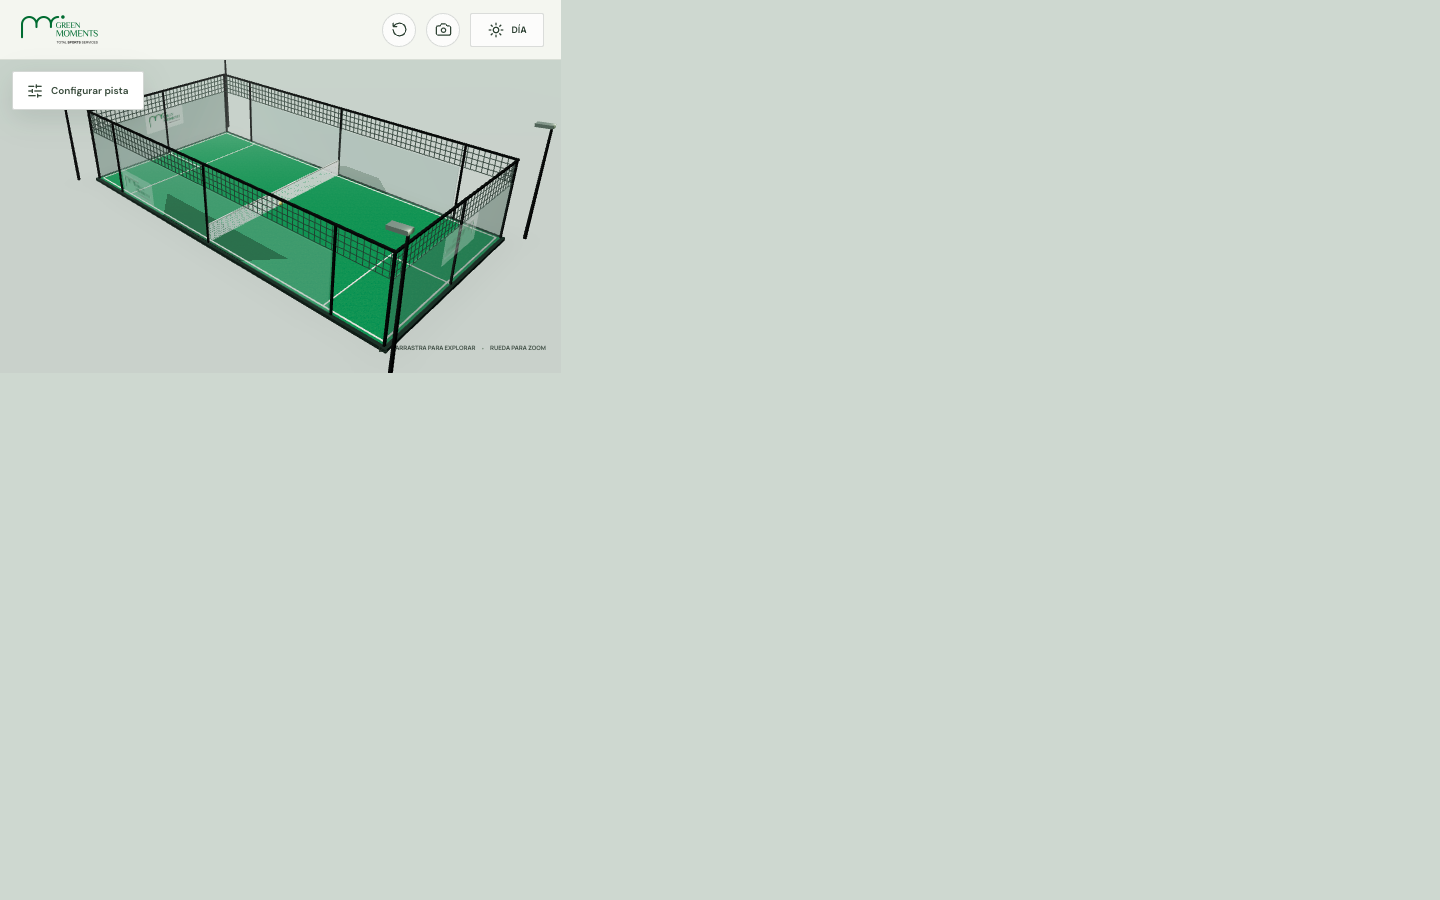
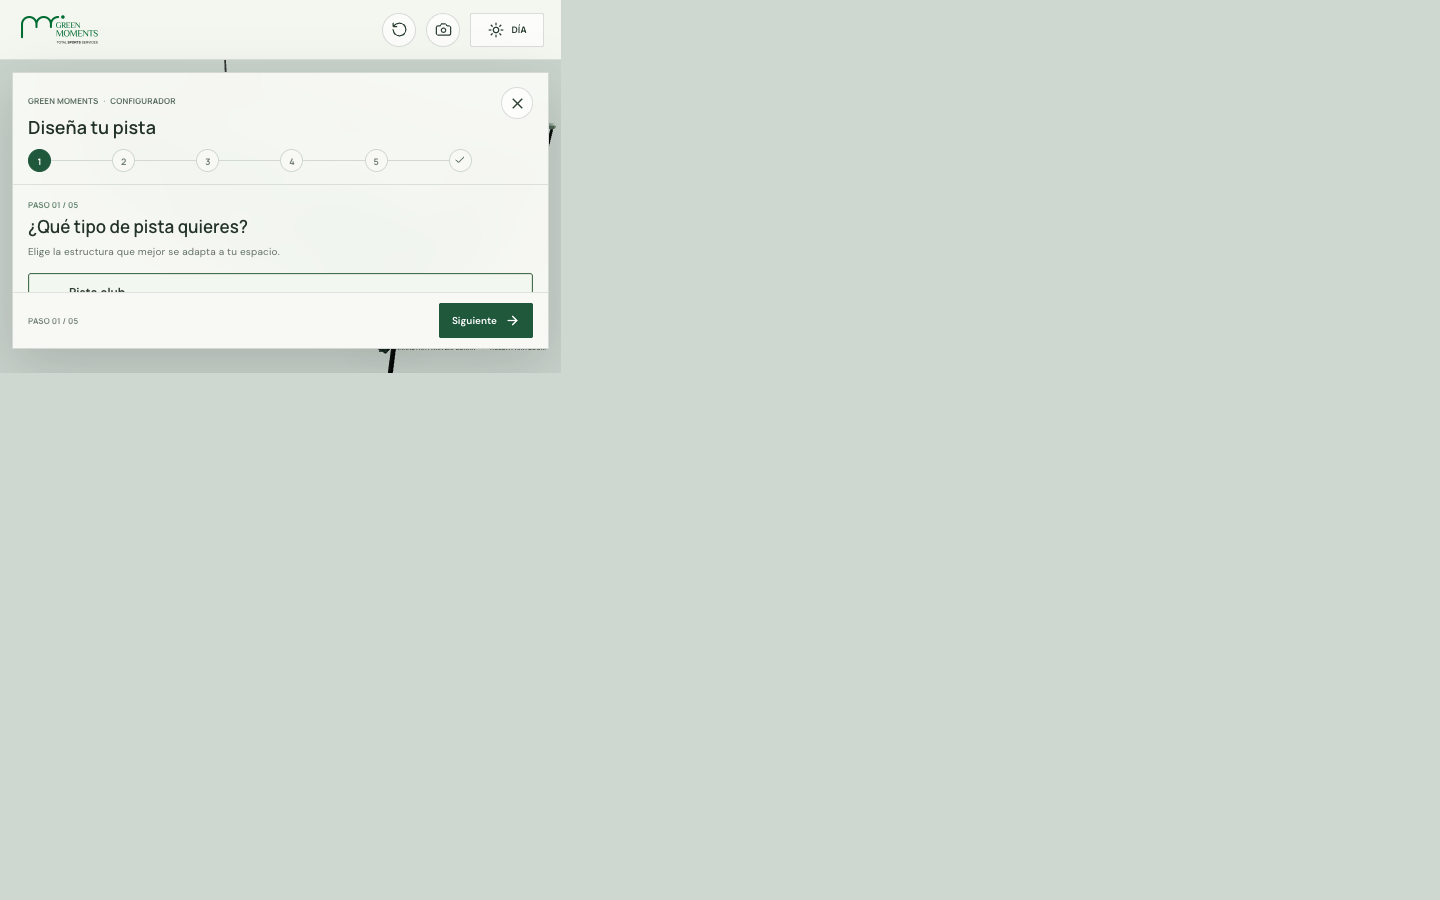
Reset camera and court configuration

Changed region(s): [[0.0, 0.0622, 0.4062, 0.4044]]

diff --git a/src/App.tsx b/src/App.tsx
@@ -49,6 +49,14 @@ type CourtConfiguration = {
   lighting: (typeof lightingTypes)[number]['id']
 }
 
+const defaultCourtConfiguration: CourtConfiguration = {
+  courtType: 'club',
+  grassType: 'monofilament',
+  grassColor: 'green',
+  frameColor: 'black',
+  lighting: 'straight',
+}
+
 const configurationSteps = ['Tipo de pista', 'Césped', 'Color', 'Estructura', 'Iluminación']
 
 function createTurfTexture(colorId: CourtConfiguration['grassColor'], grassType: CourtConfiguration['grassType']) {
@@ -83,7 +91,7 @@ function createTurfTexture(colorId: CourtConfiguration['grassColor'], grassType:
   return texture
 }
 
-function CourtScene({ night, resetKey, court }: { night: boolean; resetKey: number; court: CourtConfiguration }) {
+function CourtScene({ night, court }: { night: boolean; court: CourtConfiguration }) {
   const turf = useMemo(() => createTurfTexture(court.grassColor, court.grassType), [court.grassColor, court.grassType])
   const frameColor = frameColors.find((option) => option.id === court.frameColor)?.color ?? '#242a27'
 
@@ -154,7 +162,7 @@ function CourtScene({ night, resetKey, court }: { night: boolean; resetKey: numb
       <Floodlights night={night} type={court.lighting} frameColor={frameColor} />
       <mesh position={[0, 0.2, 0]}><sphereGeometry args={[0.12, 20, 20]} /><meshStandardMaterial color="#f2e955" roughness={0.35} /></mesh>
       <ContactShadows position={[0, -0.055, 0]} opacity={night ? 0.45 : 0.25} scale={28} blur={2.8} far={8} />
-      <OrbitControls key={resetKey} makeDefault target={[0, 1.2, 0]} minDistance={13} maxDistance={32} minPolarAngle={0.35} maxPolarAngle={1.42} enablePan={false} dampingFactor={0.08} />
+      <OrbitControls makeDefault target={[0, 1.2, 0]} minDistance={13} maxDistance={32} minPolarAngle={0.35} maxPolarAngle={1.42} enablePan={false} dampingFactor={0.08} />
     </>
   )
 }
@@ -246,13 +254,7 @@ function App() {
   const [resetKey, setResetKey] = useState(0)
   const [showReference, setShowReference] = useState(false)
   const [activeStep, setActiveStep] = useState<number | null>(0)
-  const [configuration, setConfiguration] = useState<CourtConfiguration>({
-    courtType: 'club',
-    grassType: 'monofilament',
-    grassColor: 'green',
-    frameColor: 'black',
-    lighting: 'straight',
-  })
+  const [configuration, setConfiguration] = useState<CourtConfiguration>(defaultCourtConfiguration)
 
   useEffect(() => {
     const timeout = window.setTimeout(() => window.dispatchEvent(new Event('resize')), 0)
@@ -278,6 +280,14 @@ function App() {
     setConfiguration((current) => ({ ...current, [key]: value }))
   }
 
+  function resetConfigurator() {
+    setResetKey((value) => value + 1)
+    setConfiguration(defaultCourtConfiguration)
+    setNight(false)
+    setShowReference(false)
+    setActiveStep(0)
+  }
+
   function renderChoices<T extends { id: string; label: string; description: string }>(
     options: readonly T[],
     selectedId: string,
@@ -297,9 +307,9 @@ function App() {
 
   return (
     <main className={`experience${activeStep === null ? ' is-configurator-collapsed' : ''}`}>
-      <Canvas className="court-canvas" shadows="percentage" dpr={[1, 1.8]} camera={{ position: [17.5, 14.5, 18.5], fov: 38, near: 0.1, far: 100 }} gl={{ antialias: true, powerPreference: 'high-performance' }}>
+      <Canvas key={resetKey} className="court-canvas" shadows="percentage" dpr={[1, 1.8]} camera={{ position: [17.5, 14.5, 18.5], fov: 38, near: 0.1, far: 100 }} gl={{ antialias: true, powerPreference: 'high-performance' }}>
         <Suspense fallback={null}>
-          <CourtScene night={night} resetKey={resetKey} court={configuration} />
+          <CourtScene night={night} court={configuration} />
         </Suspense>
       </Canvas>
 
@@ -307,7 +317,7 @@ function App() {
         <a className="brand" href="https://greenmoments.es/" target="_blank" rel="noreferrer" aria-label="Green Moments, página web"><img src={`${import.meta.env.BASE_URL}green-moments-logo.png`} alt="Green Moments" /></a>
         <div className="topbar-meta"><span className="live-dot" /> CONFIGURADOR 3D <span className="meta-divider">/</span> PISTA DE PÁDEL</div>
         <div className="topbar-actions">
-          <button className="icon-button" type="button" onClick={() => setResetKey((value) => value + 1)} title="Restablecer cámara" aria-label="Restablecer cámara"><RotateCcw size={17} strokeWidth={1.7} /></button>
+          <button className="icon-button" type="button" onClick={resetConfigurator} title="Restablecer cámara y configuración" aria-label="Restablecer cámara y configuración"><RotateCcw size={17} strokeWidth={1.7} /></button>
           <button className="icon-button reference-toggle" type="button" onClick={() => setShowReference((value) => !value)} title="Referencia del proyecto" aria-label={showReference ? 'Cerrar referencia del proyecto' : 'Abrir referencia del proyecto'} aria-expanded={showReference} aria-controls="reference-panel"><Camera size={17} strokeWidth={1.7} /></button>
           <button className="light-toggle" type="button" onClick={() => setNight((value) => !value)} aria-label={night ? 'Cambiar a luz de día' : 'Cambiar a luz nocturna'}>{night ? <Moon size={16} /> : <Sun size={16} />}<span>{night ? 'NOCHE' : 'DÍA'}</span></button>
         </div>

diff --git a/README.md b/README.md
@@ -17,7 +17,7 @@ Abre la URL local que muestra Vite, normalmente `http://localhost:5173/`.
 
 - Arrastra la escena para orbitar la cámara y usa la rueda para acercar o alejar.
 - Usa el botón de sol/luna para alternar la iluminación diurna y nocturna.
-- Usa el botón de restablecer para volver al encuadre inicial.
+- Usa el botón de restablecer para recuperar el encuadre y la configuración iniciales.
 - Elige entre pista club o panorámica, dos tipos de césped, siete colores, siete acabados RAL y tres opciones de iluminación.
 - Revisa y edita las selecciones en el resumen; «Solicitar presupuesto» prepara un correo a `victor@greenmoments.es` con la configuración.
 
